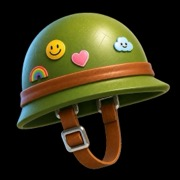
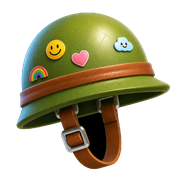
Fix transparent logomark and use full PNG in UI.
Removes baked-in black background from the helmet asset, regenerates favicons from the transparent PNG, and replaces in-page favicon.ico usage with the crisp logomark at larger sizes.

diff --git a/components/SimplePricing.tsx b/components/SimplePricing.tsx
@@ -190,9 +190,9 @@ export default function SimplePricing() {
               <span className="inline-flex items-center gap-2">
                 <span>Deploy</span>
                 <img
-                  src="/favicon.ico"
-                  alt="logo"
-                  className="inline-block w-8 h-8 sm:w-12 sm:h-12 md:w-16 md:h-16 rounded-sm align-middle"
+                  src="/images/trooper-logomark.png"
+                  alt="Trooper"
+                  className="inline-block w-10 h-10 sm:w-14 sm:h-14 md:w-16 md:h-16 object-contain align-middle"
                 />
                 <span>Trooper at your company</span>
               </span>

diff --git a/components/ui/footer.tsx b/components/ui/footer.tsx
@@ -199,7 +199,7 @@ export default function Footer() {
           <div className="flex flex-col gap-5 px-6 py-8 md:px-8 md:py-10 lg:border-r lg:border-slate-200 border-b border-slate-200 sm:col-span-2 lg:col-span-1 lg:border-b-0">
             <CellHeader number="01" eyebrow="Trooper" />
             <TrooperLogo
-              characterClassName="h-8 w-8 sm:h-9 sm:w-9 object-contain"
+              characterClassName="h-10 w-10 sm:h-11 sm:w-11 object-contain"
               textClassName="text-lg sm:text-xl"
             />
             <p className="text-sm leading-relaxed text-slate-600">

diff --git a/components/ui/header.tsx b/components/ui/header.tsx
@@ -61,7 +61,7 @@ export default function Header() {
           asLink
           priority
           className="shrink-0"
-          characterClassName="h-9 w-9 sm:h-10 sm:w-10 object-contain"
+          characterClassName="h-11 w-11 sm:h-12 sm:w-12 object-contain"
           textClassName="text-base sm:text-lg"
         />
 

diff --git a/components/ui/TrooperLogo.tsx b/components/ui/TrooperLogo.tsx
@@ -13,7 +13,7 @@ type TrooperLogoProps = {
 
 export default function TrooperLogo({
   className = '',
-  characterClassName = 'h-9 w-9 sm:h-10 sm:w-10 object-contain',
+  characterClassName = 'h-11 w-11 sm:h-12 sm:w-12 object-contain',
   textClassName = 'text-xl sm:text-2xl',
   asLink = false,
   priority = false,

diff --git a/components/ui/logo.tsx b/components/ui/logo.tsx
@@ -1,5 +1,5 @@
 import TrooperLogo from '@/components/ui/TrooperLogo'
 
 export default function Logo() {
-  return <TrooperLogo asLink characterClassName="h-10 w-10 object-contain" textClassName="text-2xl" />
+  return <TrooperLogo asLink characterClassName="h-12 w-12 object-contain" textClassName="text-2xl" />
 }
